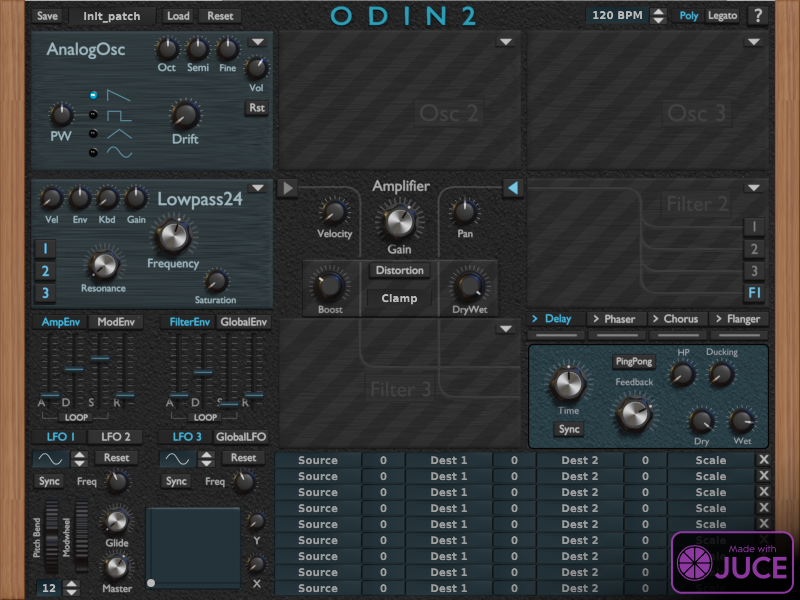
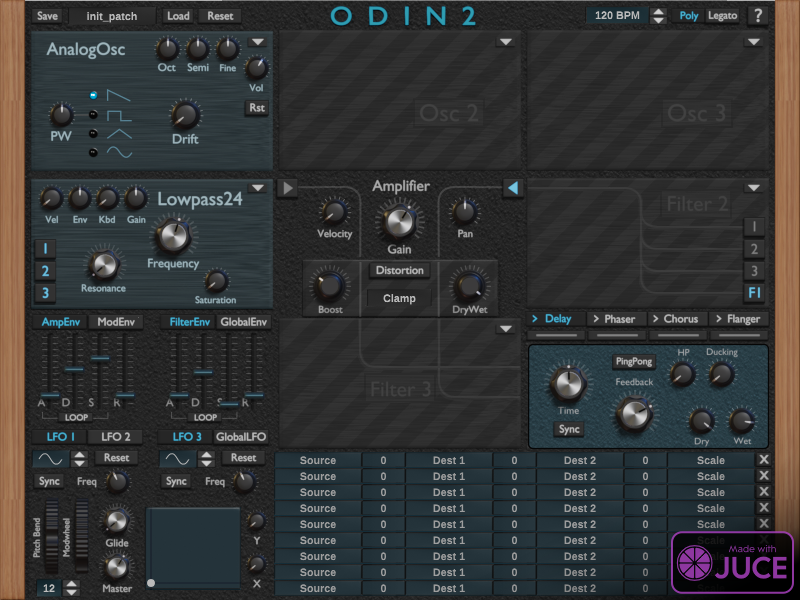
distortion panel

diff --git a/Source/AmpDistortionFlowComponent.cpp b/Source/AmpDistortionFlowComponent.cpp
@@ -244,7 +244,7 @@ void AmpDistortionFlowComponent::forceValueTreeOntoComponents(ValueTree p_tree) 
 }
 
 void AmpDistortionFlowComponent::setDistortionPanelActive(bool p_active) {
-#define DISTORTION_ON_COLOR juce::Colour(30, 53, 43)
+#define DISTORTION_ON_COLOR juce::Colour(14, 35, 50)
 	m_distortion_algo.setColor(p_active ? DISTORTION_ON_COLOR : DARKGREY);
 	m_distortion_on = p_active;
 	repaint();

diff --git a/Source/OscComponent.cpp b/Source/OscComponent.cpp
@@ -1030,7 +1030,6 @@ OscComponent::OscComponent(OdinAudioProcessor &p_processor,
 	                      "on the bottom right.");
 	addChildComponent(m_specdraw);
 
-	//juce::Colour vector_color(35, 50, 42);
 	juce::Colour vector_color(25, 50, 60);
 
 	juce::Image glas_panel = ImageCache::getFromMemory(BinaryData::vectorpanel_png, BinaryData::vectorpanel_pngSize);
